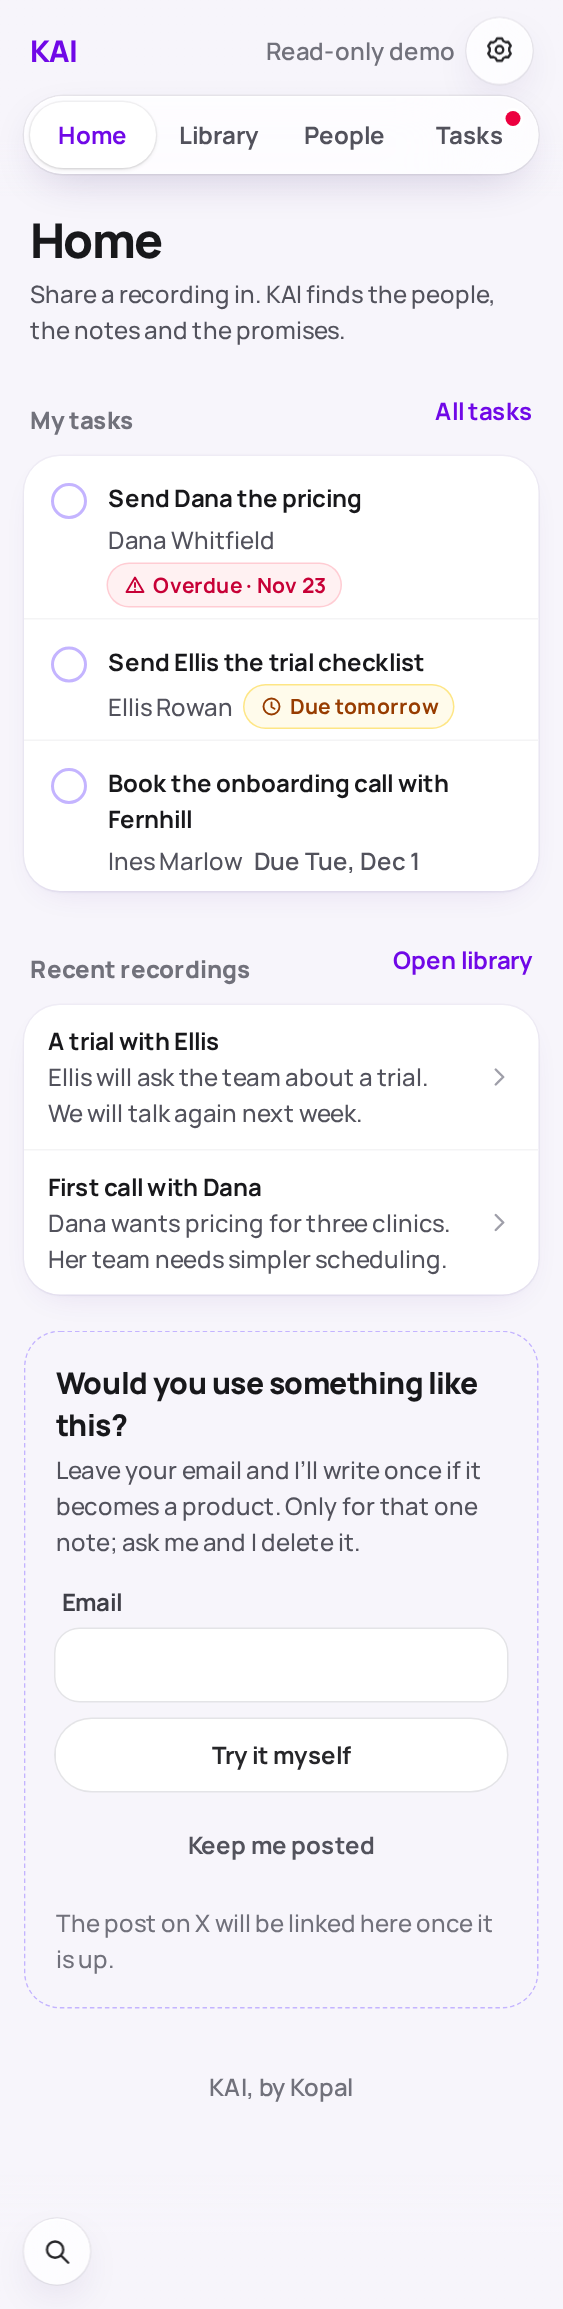
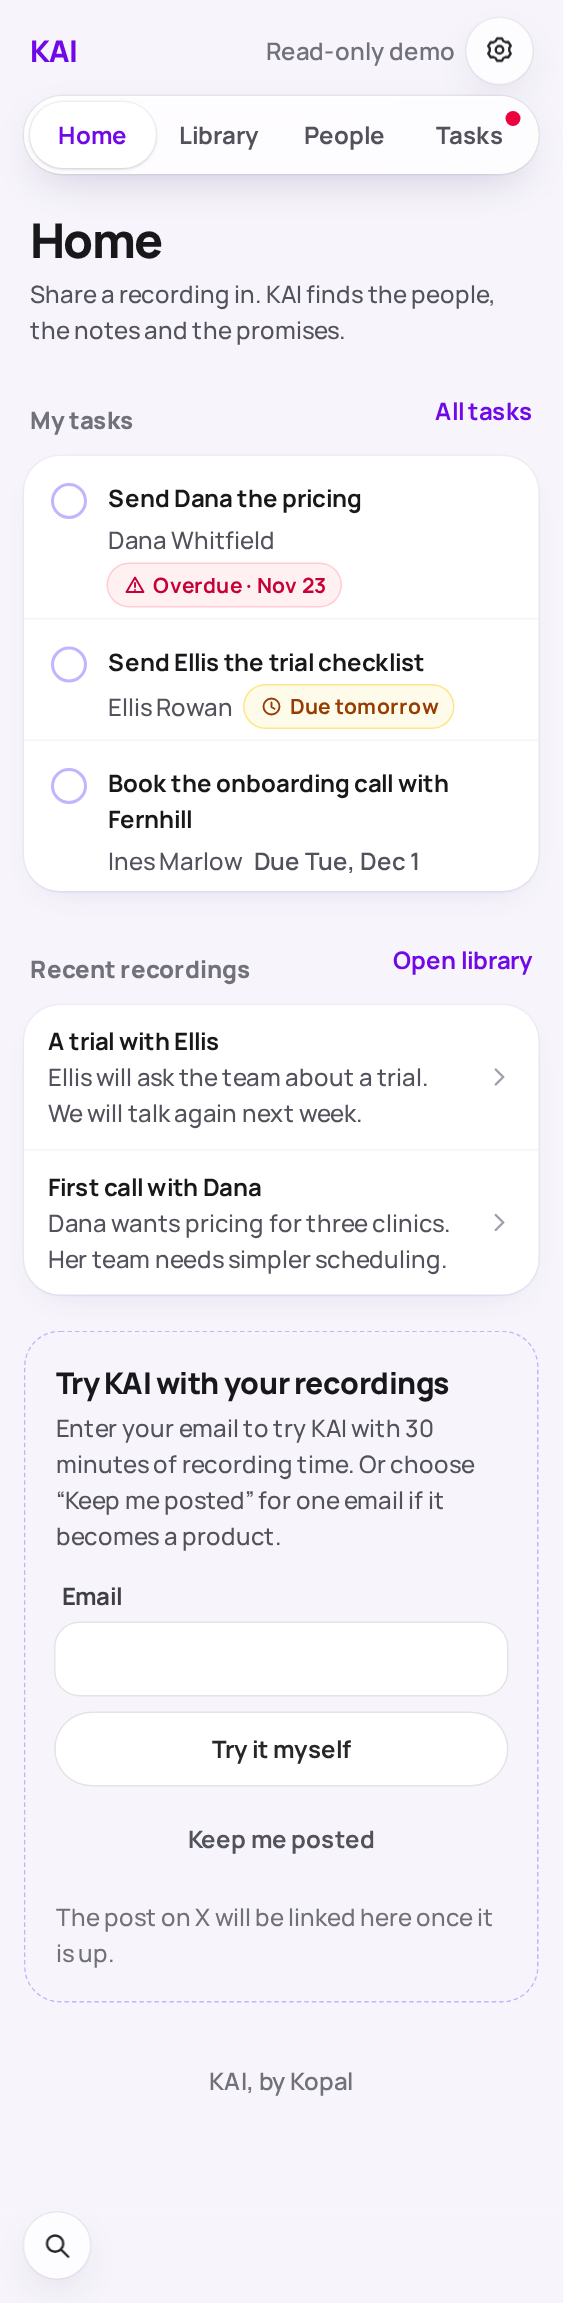
Explain trial and waitlist choices on the public email card

diff --git a/src/look/screens/Waitlist.tsx b/src/look/screens/Waitlist.tsx
@@ -23,15 +23,16 @@ export function Waitlist({
 }) {
   const [email, setEmail] = useState('')
   const {enabled,active,setActive}=useContext(SignupCardContext)
+  const offersTrial=enabled && !saved
   const action=useRef<HTMLDivElement>(null)
   const [visible,setVisible]=useState(false)
   useEffect(()=>{const node=action.current;if(!enabled || !node || saved){setVisible(false);return}const observer=new IntersectionObserver(entries=>setVisible(entries[0].isIntersecting),{rootMargin:'-160px 0px 0px 0px'});observer.observe(node);return()=>observer.disconnect()},[enabled,saved])
   useEffect(()=>{setActive(Boolean(enabled && (visible || trialOpen)));return()=>setActive(false)},[enabled,visible,trialOpen,setActive])
   return (
-    <section aria-label="Keep me posted" className="rounded-3xl border border-dashed border-violet-300 bg-transparent p-5">
-      <h2 className="text-xl font-extrabold tracking-tight">Would you use something like this?</h2>
+    <section aria-label={offersTrial ? 'Try KAI or keep me posted' : 'Keep me posted'} className="rounded-3xl border border-dashed border-violet-300 bg-transparent p-5">
+      <h2 className="text-xl font-extrabold tracking-tight">{offersTrial ? 'Try KAI with your recordings' : 'Would you use something like this?'}</h2>
       <p className="mt-1 text-base font-medium text-zinc-600">
-        Leave your email and I’ll write once if it becomes a product. Only for that one note; ask me and I delete it.
+        {offersTrial ? 'Enter your email to try KAI with 30 minutes of recording time. Or choose “Keep me posted” for one email if it becomes a product.' : 'Leave your email and I’ll write once if it becomes a product. Only for that one note; ask me and I delete it.'}
       </p>
       {saved ? (
         <div className="mt-4">

diff --git a/tests/phone/waitlist.spec.ts b/tests/phone/waitlist.spec.ts
@@ -6,7 +6,7 @@ import { assertPhone } from './usability';
 test('a read-only phone visitor can join once with a quiet button and keep browsing',async({page,kai})=> {
   const before=(kai.db.prepare('SELECT count(*) AS n FROM waitlist').get() as {n:number}).n;
   await page.goto('/home');await expect(page.getByRole('button',{name:'Keep me posted',exact:true})).toBeEnabled();
-  await expect(page.getByText('Only for that one note; ask me and I delete it.')).toBeVisible();await assertPhone(page);
+  await expect(page.getByRole('heading',{name:'Try KAI with your recordings'})).toBeVisible();await expect(page.getByText('Enter your email to try KAI with 30 minutes of recording time. Or choose “Keep me posted” for one email if it becomes a product.')).toBeVisible();await assertPhone(page);
   await page.getByLabel('Email',{exact:true}).fill(randomUUID()+'@example.invalid');await page.getByRole('button',{name:'Keep me posted',exact:true}).click();
   await expect(page.getByText('You’re on the list. Thank you.')).toBeVisible();await expect(page.getByLabel('Email',{exact:true})).toHaveCount(0);await assertPhone(page);
   expect((kai.db.prepare('SELECT count(*) AS n FROM waitlist').get() as {n:number}).n).toBe(before+1);

diff --git a/design/README.md b/design/README.md
@@ -180,3 +180,5 @@ Sign-in keeps its email explanation short. The agreement includes its terms/priv
 The email card has a dashed outline. On public Home, Try it myself reuses its email and opens an information/terms popup before code verification; Keep me posted remains secondary. The floating trial action yields to the visible card action, then returns when it leaves view. Signed-in notebooks keep their existing waitlist action.
 
 Overdue/due-soon badges and status counts use 14 px type. Only the marked non-interactive badge spans receive the smaller-type exception in the phone and gallery checks.
+
+The public email card introduces both choices: try personal recordings with 30 minutes of demo time, or receive one future product email. Signed-in and saved waitlist cards retain their waitlist-only wording.
